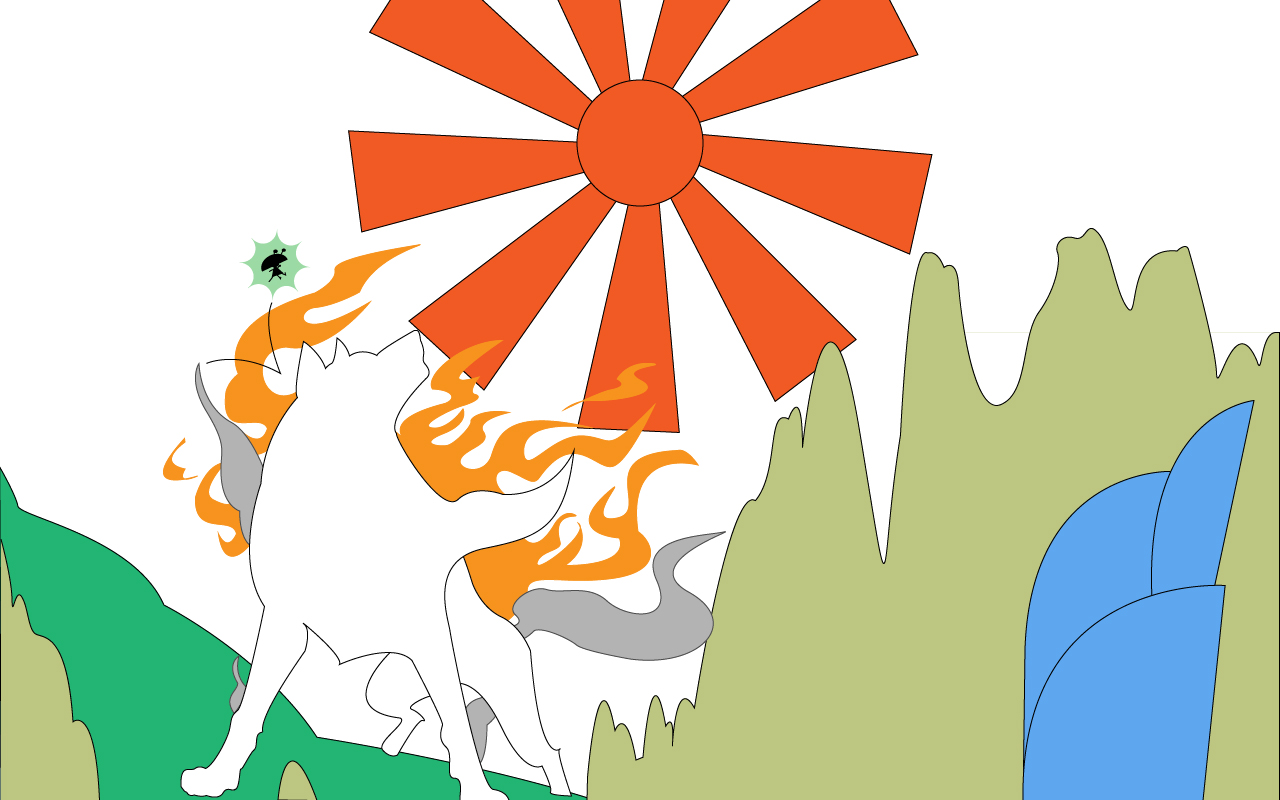
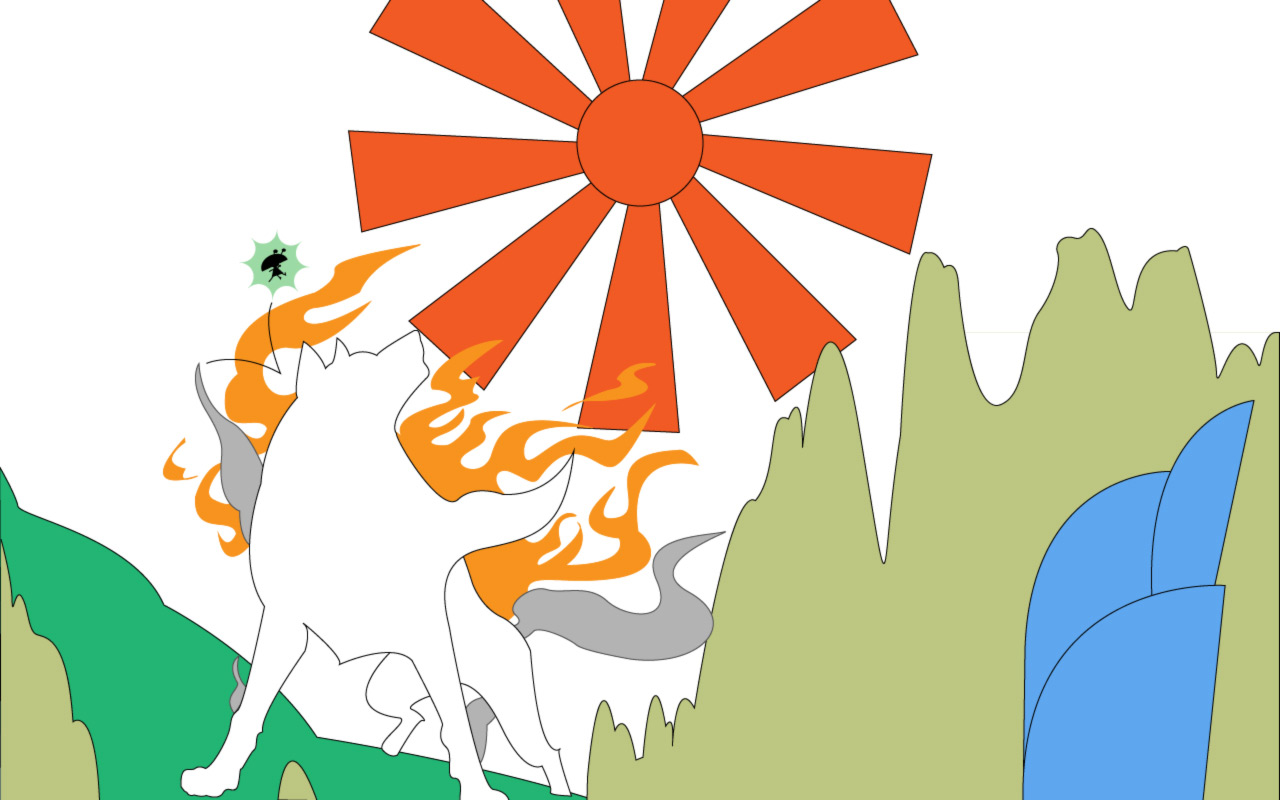
Image Optimization and ADDED more works
Amaterasu and Neko Atsume WORKS folder should be all optimized for web
(not the thumbnails though). Added in nekoatsume.php

diff --git a/css/global.css b/css/global.css
@@ -113,7 +113,7 @@ h1, h2, h3, h4, h5, h6 {
 .works-thumbnail {
   position: relative;
   width: 100%;
-  height: 200px;
+  height: 230px;
   overflow: hidden; }
   .works-thumbnail img {
     position: absolute;
@@ -130,7 +130,6 @@ h1, h2, h3, h4, h5, h6 {
 
 .card {
   border: 1px solid #ccc;
-  padding: 10px;
   margin-bottom: 15px;
   height: 330px; }
 
@@ -257,6 +256,9 @@ h1, h2, h3, h4, h5, h6 {
   width: 100%;
   max-width: 800px;
   height: auto;
+  margin-bottom: 50px; }
+
+.tools-list {
   margin-bottom: 50px; }
 
 /* -=-=-=-=-=-=-=-=-=-=-=-=-=-=-=-=-=-=-=-=-=-=-=-=-=-=-=-=-=-=-=-=-=-=-=-

diff --git a/sass/components/_cards.scss b/sass/components/_cards.scss
@@ -13,7 +13,7 @@
 
   position: relative;
   width: 100%;
-  height: 200px;
+  height: 230px;
   overflow: hidden;
   img {
     position: absolute;
@@ -33,7 +33,7 @@
 
 .card {
   border: 1px solid #ccc;
-  padding: 10px;
+  // padding: 10px;
   margin-bottom:15px;
   height: 330px;
 }

diff --git a/global.js b/global.js
@@ -17,5 +17,6 @@ $(document).ready(function(){
 
     // scroll down tooltip
     $(".down-arrow").tooltip();
+    
 
 }); 

diff --git a/sass/structure/_content.scss b/sass/structure/_content.scss
@@ -11,3 +11,7 @@
   height: auto;
   margin-bottom: 50px;
 }
+
+.tools-list {
+	margin-bottom: 50px;
+}

diff --git a/nekoatsume.php b/nekoatsume.php
@@ -10,8 +10,8 @@ include ("navigation.php");
 -=-=-=-=-=-=-=-=-=-=-=-=-=-=-=-=-=-=-=-=-=-=-=-=-=-=-=-=-=-=-=-=-=-=-=- -->
 <div class="jumbotron main-jumbo">
   <div class="container">
-    <h1 class="text-center">amaterasu</h1>
-    <h3 class="text-center">goddess of the sun</h3>
+    <h1 class="text-center">kitty collector</h1>
+    <h3 class="text-center">gotta collect 'em all!</h3>
   </div>  <!-- container-->
 </div> <!-- jumbotron -->
 
@@ -23,7 +23,7 @@ include ("navigation.php");
 <div class="container">
 <!-- -=-=-=-=- FINISHED WORK -=-=-=-=- -->
 	<div class="col-md-8 text-center">
-    <img class="work-main" src="imgs/works/amaterasu/amaterasu.jpg" alt="work 1"/>
+    <img class="work-main" src="imgs/works/nekoatsume/nekoatsume.jpg" alt="work 1"/>
   </div> <!-- column -->
 
 <!-- -=-=-=-=-=-=-=-=-=-=-=-=-=-=-=-=-=- -->
@@ -36,8 +36,8 @@ include ("navigation.php");
     <h3 class="no-header">March 2, 2015</h3>
     <h3 class="no-header">Tools, Programs, and Softwares Used:</h3>
       <ul class="tools-list">
+        <li>Adobe Photoshop</li>
         <li>Adobe Illustrator</li>
-        <li>sdfsdfds</li>
         <li>sdfsdfds</li>
         <li>sdfsdfds</li>
         <li>sdfsdfds</li>
@@ -51,27 +51,46 @@ include ("navigation.php");
 <div class="container">
 
   <div class="col-xs-6 col-md-3 text-center">
-    <a class="thumbnail">
-      <img src="imgs/works/amaterasu/original.jpg" alt="original"/>
-    </a>
-  </div> <!-- column -->
-
-  <div class="col-xs-6 col-md-3 text-center">
     <a class="thumbnail" data-toggle="modal" data-target=".bs-example-modal-lg">
-      <img src="imgs/works/amaterasu/progress-o1.jpg" alt="progress"/>
+      <img src="imgs/works/nekoatsume/progress-o1.jpg" alt="original"/>
     </a>
   </div> <!-- column -->
 
-<div class="modal fade bs-example-modal-lg" id="myModal" tabindex="-1" role="dialog" aria-labelledby="myLargeModalLabel">
+ <div class="modal fade bs-example-modal-lg" id="myModal" tabindex="-1" role="dialog" aria-labelledby="myLargeModalLabel">
   <div class="modal-dialog modal-lg" role="document">
     <div class="modal-content">
       <div class="modal-header">
         <button type="button" class="close" data-dismiss="modal" aria-label="Close"><span aria-hidden="true">&times;</span></button>
-        <h4 class="modal-title" id="myModalLabel">Progress #1</h4>
+        <h4 class="modal-title" id="myModalLabel">Original Background Image</h4>
       </div>
       <div class="modal-body">
-        <p><img class="modal-img" src="imgs/works/amaterasu/progress-o1.jpg" alt="progress"/></p>
-        <p>Used the pen tool to outline basic shapes and filled with base colors</p>
+        <p><img class="modal-img" src="imgs/works/nekoatsume/progress-o1.jpg" alt="progress"/></p>
+        <p>The original image I used for the background</p>
+      </div>
+      <div class="modal-footer">
+        <button type="button" class="btn btn-default" data-dismiss="modal">Close</button>
+      </div>
+    </div>
+  </div>
+</div>
+
+  <div class="col-xs-6 col-md-3 text-center">
+    <a class="thumbnail" data-toggle="modal" data-target=".bs-example-modal-lg">
+      <img src="imgs/works/nekoatsume/progress-o2.jpg" alt="progress"/>
+    </a>
+  </div> <!-- column -->
+
+  <div class="modal fade bs-example-modal-lg" id="myModal" tabindex="-1" role="dialog" aria-labelledby="myLargeModalLabel">
+  <div class="modal-dialog modal-lg" role="document">
+    <div class="modal-content">
+      <div class="modal-header">
+        <button type="button" class="close" data-dismiss="modal" aria-label="Close"><span aria-hidden="true">&times;</span></button>
+        <h4 class="modal-title" id="myModalLabel">Progress #2</h4>
+      </div>
+      <div class="modal-body">
+        <p><img class="modal-img" src="imgs/works/nekoatsume/progress-o2.jpg" alt="progress"/></p>
+        <p>I got more photographs and composited them into the background image. I also vectored some elements from Adobe Illustrator and 
+        transfered it over to Adobe Photoshop.</p>
       </div>
       <div class="modal-footer">
         <button type="button" class="btn btn-default" data-dismiss="modal">Close</button>
@@ -82,13 +101,13 @@ include ("navigation.php");
 
   <div class="col-xs-6 col-md-3 text-center">
     <a class="thumbnail">
-      <img src="imgs/works/amaterasu/progress-o2.jpg" alt="progress"/>
+      <img src="imgs/works/nekoatsume/progress-o3.jpg" alt="progress"/>
     </a>
   </div> <!-- column -->
 
   <div class="col-xs-6 col-md-3 text-center">
     <a class="thumbnail">
-      <img src="imgs/works/amaterasu/progress-o3.jpg" alt="progress"/>
+      <img src="imgs/works/nekoatsume/progress-o4.jpg" alt="progress"/>
     </a>
   </div> <!-- column -->
 

diff --git a/works.php b/works.php
@@ -55,12 +55,12 @@ include ("navigation.php");
   <div class="card">
 
     <div class="works-thumbnail">
-      <img src="imgs/thumbnails/okami.jpg" alt="work 1"/>
+      <img src="imgs/thumbnails/nekoatsume.jpg" alt="work 1"/>
     </div> <!-- thumbnail -->
 
     <div class="caption">
-      <h3>Work #1</h3>
-      <p>description</p>
+      <h3><a href="nekoatsume.php">Kitty Collector</a></h3>
+      <p>Graphic Design | </p>
     </div> <!-- caption -->
 
   </div> <!-- card -->
